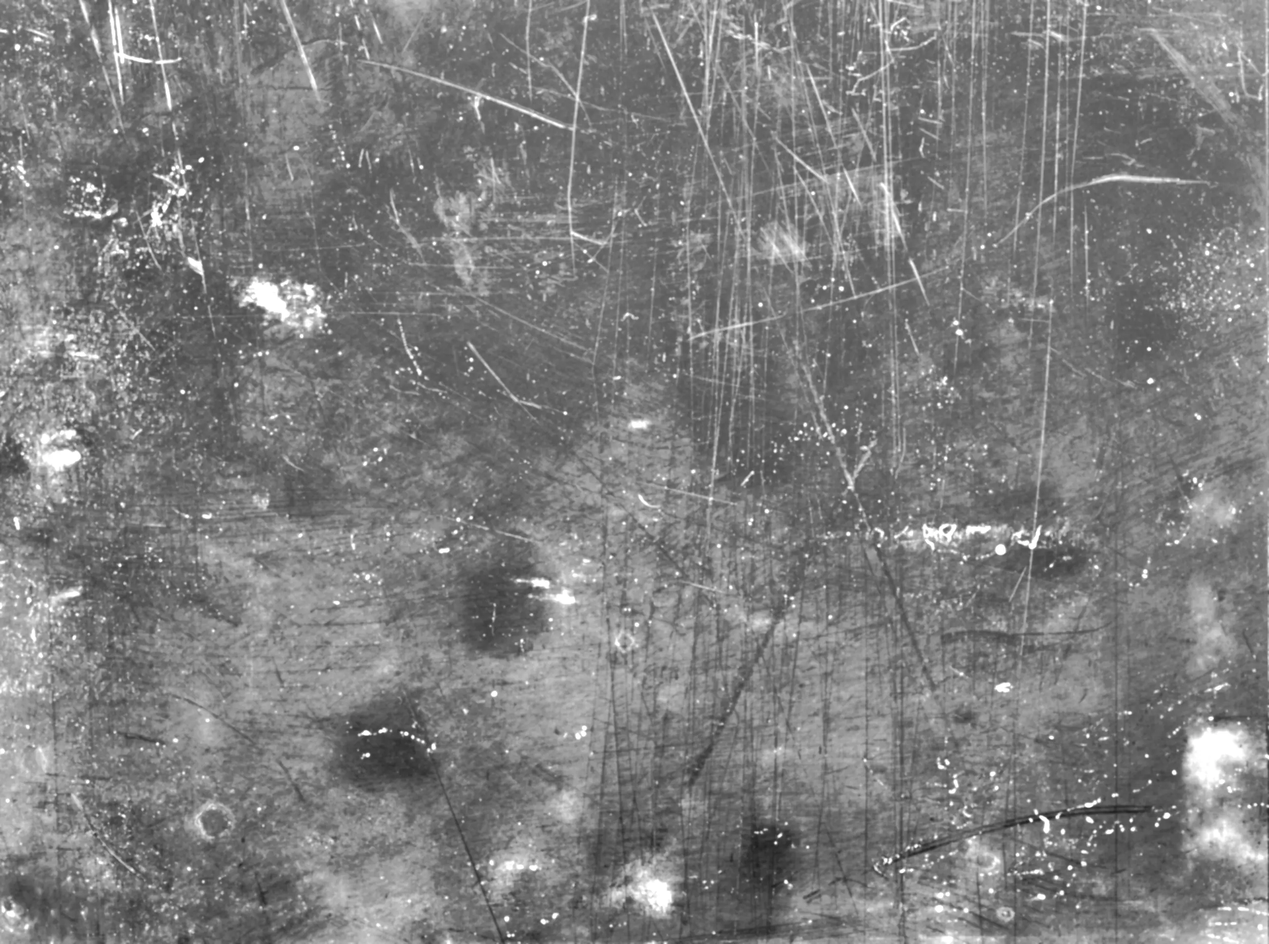
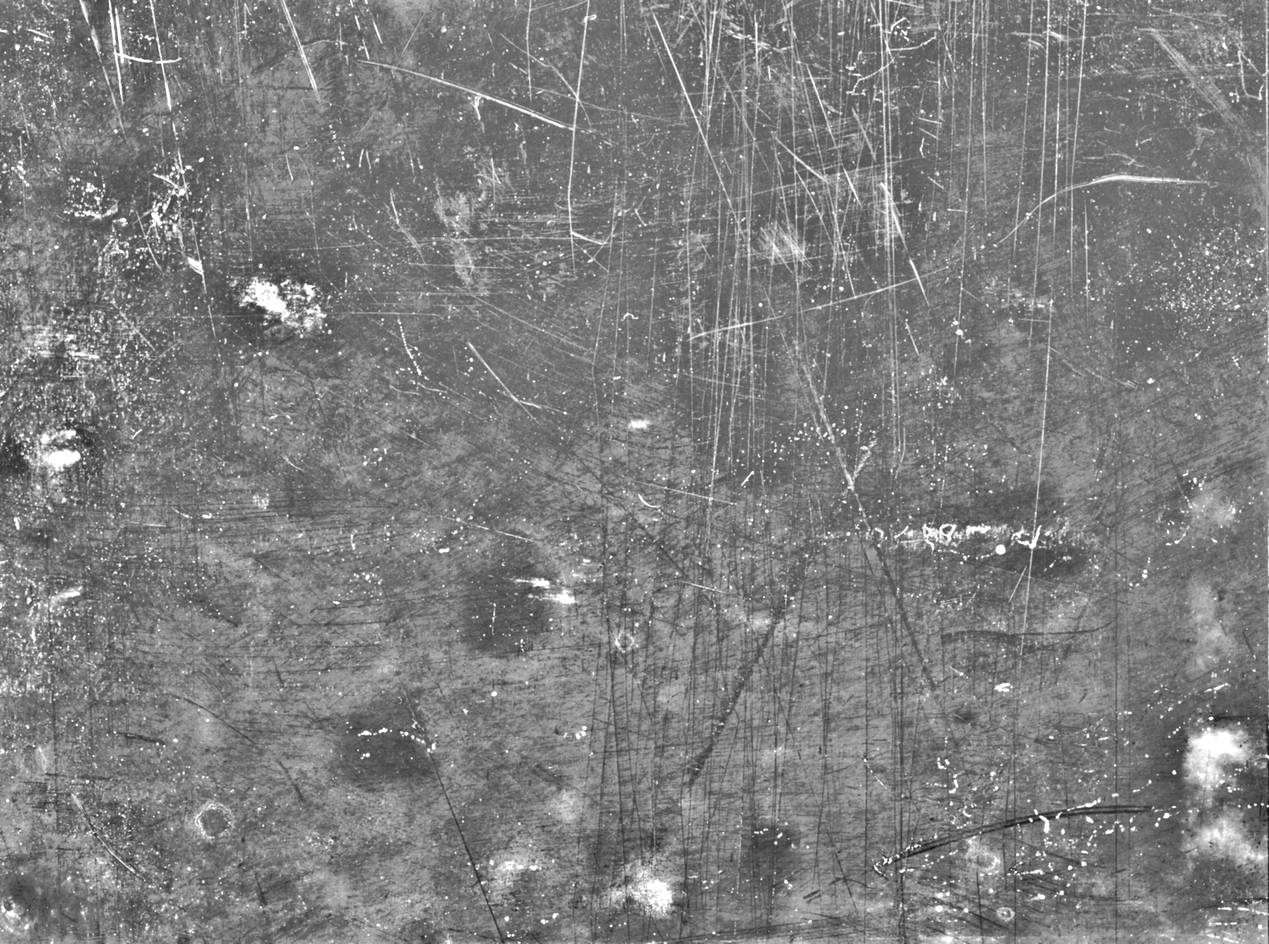
Narrow the film's band at both ends, and re-bake
The film read as a low-resolution asset rather than as film, and both ends
of its band-pass were responsible.

At the coarse end, FILM_SIGMA_FRAC of 0.10 is 190px of a 2600px frame, which
leaves the emulsion base's slow mottle in the picture. The levels stage then
amplifies it 3x along with everything else, and an amplified grey cloud with
no edge in it is exactly what an image scaled up from something small looks
like. 0.035 is a fortieth of the frame, still above every mark the plate
carries.

At the fine end, FILM_FINE of 2.0 was chosen on the argument that fine tooth
is the paper tile's job. The argument is sound; the number was too high. The
frame is drawn with `cover` over the viewport, so a radius in pixels of the
2600px asset lands on screen scaled by (viewport / 2600) — at 1440 a sigma of
2.0 arrives as 1.1 device pixels, a blur across the whole frame rather than a
band nobody can resolve. 1.2 lands at 0.66 and the scratches come back with
their edges on.

It is not free: 171/283 KB becomes 276/477 KB across the two rungs, of which
a visitor fetches one. FILM_QUALITY comes down 74 -> 68 to buy some of that
back — a re-bake with no webp step at all is hard to tell from the shipped
one under the levels stage, so the compression was never the limit.

?v= bumped over all four texture URLs, as the README requires.

diff --git a/portfolio/styles.css b/portfolio/styles.css
@@ -1967,8 +1967,8 @@ body::after {
      ?v= is the digest build-textures.py prints. Same job as index.html's
      IMG_VERSION and the same reason — the filename does not change when the
      bytes do, and vercel.json caches this directory for a day. */
-  --fx-film-src: image-set(url("img/tex/film-1600.webp?v=7202d31c") 1x,
-                           url("img/tex/film-2600.webp?v=7202d31c") 2x);
+  --fx-film-src: image-set(url("img/tex/film-1600.webp?v=3311dec2") 1x,
+                           url("img/tex/film-2600.webp?v=3311dec2") 2x);
   --fx-film-strength: 0.14;
   --fx-film-blend: multiply;
   --fx-film-zoom: 1;      /* about the centre; >1 crops in on the frame       */
@@ -1993,8 +1993,8 @@ body::after {
 
      Anything is a valid size — the tile wraps, so there is no rung to land on —
      but sizes near a whole fraction of 512 resample most cleanly. */
-  --fx-paper-src: image-set(url("img/tex/paper-512.webp?v=7202d31c") 1x,
-                            url("img/tex/paper-1024.webp?v=7202d31c") 2x);
+  --fx-paper-src: image-set(url("img/tex/paper-512.webp?v=3311dec2") 1x,
+                            url("img/tex/paper-1024.webp?v=3311dec2") 2x);
   --fx-paper-size: 320px;
   --fx-paper-strength: 0.22;
   --fx-paper-blend: multiply;

diff --git a/design/effects/build-textures.py b/design/effects/build-textures.py
@@ -148,8 +148,8 @@ def match_energy(a: np.ndarray, target_std: float) -> np.ndarray:
     coarser and just as strong, which is what the same paper looks like through a
     coarser screen.
 
-    It applies to the film too and does almost nothing there — 29.70 against
-    29.64 — which is worth keeping as a check rather than skipping: the film is
+    It applies to the film too and does almost nothing there — 28.82 against
+    28.89 — which is worth keeping as a check rather than skipping: the film is
     band-passed, so it has no energy near its own Nyquist to lose, and this
     reporting nothing is that band-pass being confirmed at the other end of the
     pipeline.
@@ -199,30 +199,45 @@ FILM_INSET = 0.035
 # it. Everything below is therefore measured in pixels of the top rung.
 FILM_RUNGS = [1600, 2600]
 
-# A tenth of the short side. Chosen as the largest radius that still flattens the
-# frame's corner falloff: the marks are all far finer than this — the widest
-# bloom on the plate is about a fortieth of the frame — so every one of them
-# passes through with its own contrast intact, which a tighter radius would start
-# to eat into.
-FILM_SIGMA_FRAC = 0.10
-
-# ...and the OTHER end of the pass, which is the constant that pays for itself
-# most and is the least obvious. A plain high-pass leaves the emulsion's
-# per-pixel grain in, and per-pixel grain is, by construction, the single least
-# compressible thing an image can contain: the first cut of this asset came out
-# at 590 KB and 1.74 MB for the two rungs, against 118 KB and 296 KB with this
-# line in. Nothing visible is lost, because nothing visible was there —
-# at 2600px across a 1920px window the removed band is finer than a device pixel,
-# and the band-passed frame's own standard deviation is 29.8 against 33.5, which
-# is 89% of the tooth for 41% of the bytes.
+# The coarse end of the band. It was a tenth of the short side — the largest
+# radius that flattens the frame's corner falloff without eating into the widest
+# bloom, which is about a fortieth of the frame — and that turned out to be the
+# wrong thing to optimise. A tenth of the short side is 190px of a 2600px frame,
+# and the emulsion base's slow mottle lives in the 60-190px band that leaves in.
+# Under the levels stage that band is amplified 3x along with everything else,
+# and a soft grey cloud with no edge in it, amplified, is exactly what a picture
+# that has been scaled up from something small looks like. It read as a low-res
+# asset rather than as film.
 #
-# It is also the right division of labour rather than merely the cheap one. Fine
-# tooth is the paper tile's job, and the paper tile can do it in 56 KB because it
-# is 512px square and repeats. Asking the film to carry the same frequencies
-# means paying for them once per pixel of a full-frame picture AND getting them
-# twice on the page. So the film is band-passed down to what only it can supply:
-# the scratches, the dust, the blooms and the plate's slow mottle.
-FILM_FINE = 2.0
+# A fortieth is 65px, so this is still above every mark the plate carries, and
+# the falloff it no longer flattens was never visible at these opacities anyway.
+FILM_SIGMA_FRAC = 0.035
+
+# ...and the OTHER end of the pass, which is the constant that costs the most
+# bytes and is the one to move if this asset ever has to get smaller. A plain
+# high-pass leaves the emulsion's per-pixel grain in, and per-pixel grain is, by
+# construction, the single least compressible thing an image can contain: the
+# first cut of this asset came out at 590 KB and 1.74 MB for the two rungs.
+#
+# It was 2.0, on the argument that fine tooth is the paper tile's job and the
+# paper tile can do it in 56 KB because it is 512px square and repeats. The
+# argument is sound and the number was still too high. The film is drawn with
+# `cover` over a box that is always the viewport, so a radius stated in pixels of
+# the 2600px frame lands on screen scaled by (viewport / 2600): at 1440 a sigma
+# of 2.0 arrives as 1.1 device pixels, which is a blur across the whole frame
+# rather than a band nobody can resolve. Every scratch on the plate came out
+# without an edge, and the page under it looked soft.
+#
+# 1.2 lands at about 0.66 device pixels at the same width — under what the
+# display resolves, which is what this constant was always meant to be — and the
+# scratches come back with their edges on. It is not free: the two rungs go from
+# 171/283 KB to 276/477 KB, of which a visitor fetches exactly one. Paid
+# knowingly, because the softness was the thing being complained about.
+#
+# The division of labour still holds and is why this is 1.2 rather than 0.8: the
+# per-pixel band under it is the paper's, it costs 1.2 MB across the two rungs to
+# carry it here, and it would then be on the page twice.
+FILM_FINE = 1.2
 
 FILM_GAIN = 4.6         # the band's own std is ~7 levels once the grain is out
                         # of it; x4.6 puts it near 32, a legible tooth at the
@@ -231,9 +246,16 @@ FILM_GAMMA = 0.8        # open, and more open than the paper's: what is left in
                         # this band after FILM_FINE is mostly faint — the loud
                         # marks are a few dozen scratches — so the curve is doing
                         # real work here rather than trimming
-FILM_QUALITY = 74       # lossy: a soft full-frame wash at <=14% opacity, where
-                        # lossless costs about 6x the bytes for a difference
-                        # nothing at that opacity could show
+FILM_QUALITY = 68       # lossy: a full-frame wash at <=18% opacity, where
+                        # lossless costs about 3x the bytes for a difference
+                        # nothing at that opacity could show. Measured against a
+                        # re-bake with no webp step at all and the two are hard
+                        # to tell apart under the levels stage, so the quality
+                        # was lowered rather than raised when FILM_FINE came
+                        # down: it is buying back some of what the finer band
+                        # cost, and the artefact it trades for — webp's 4px
+                        # transform grid, which the 3x detail gain does amplify —
+                        # is the smaller of the two by a long way.
 
 
 def build_film() -> None:
